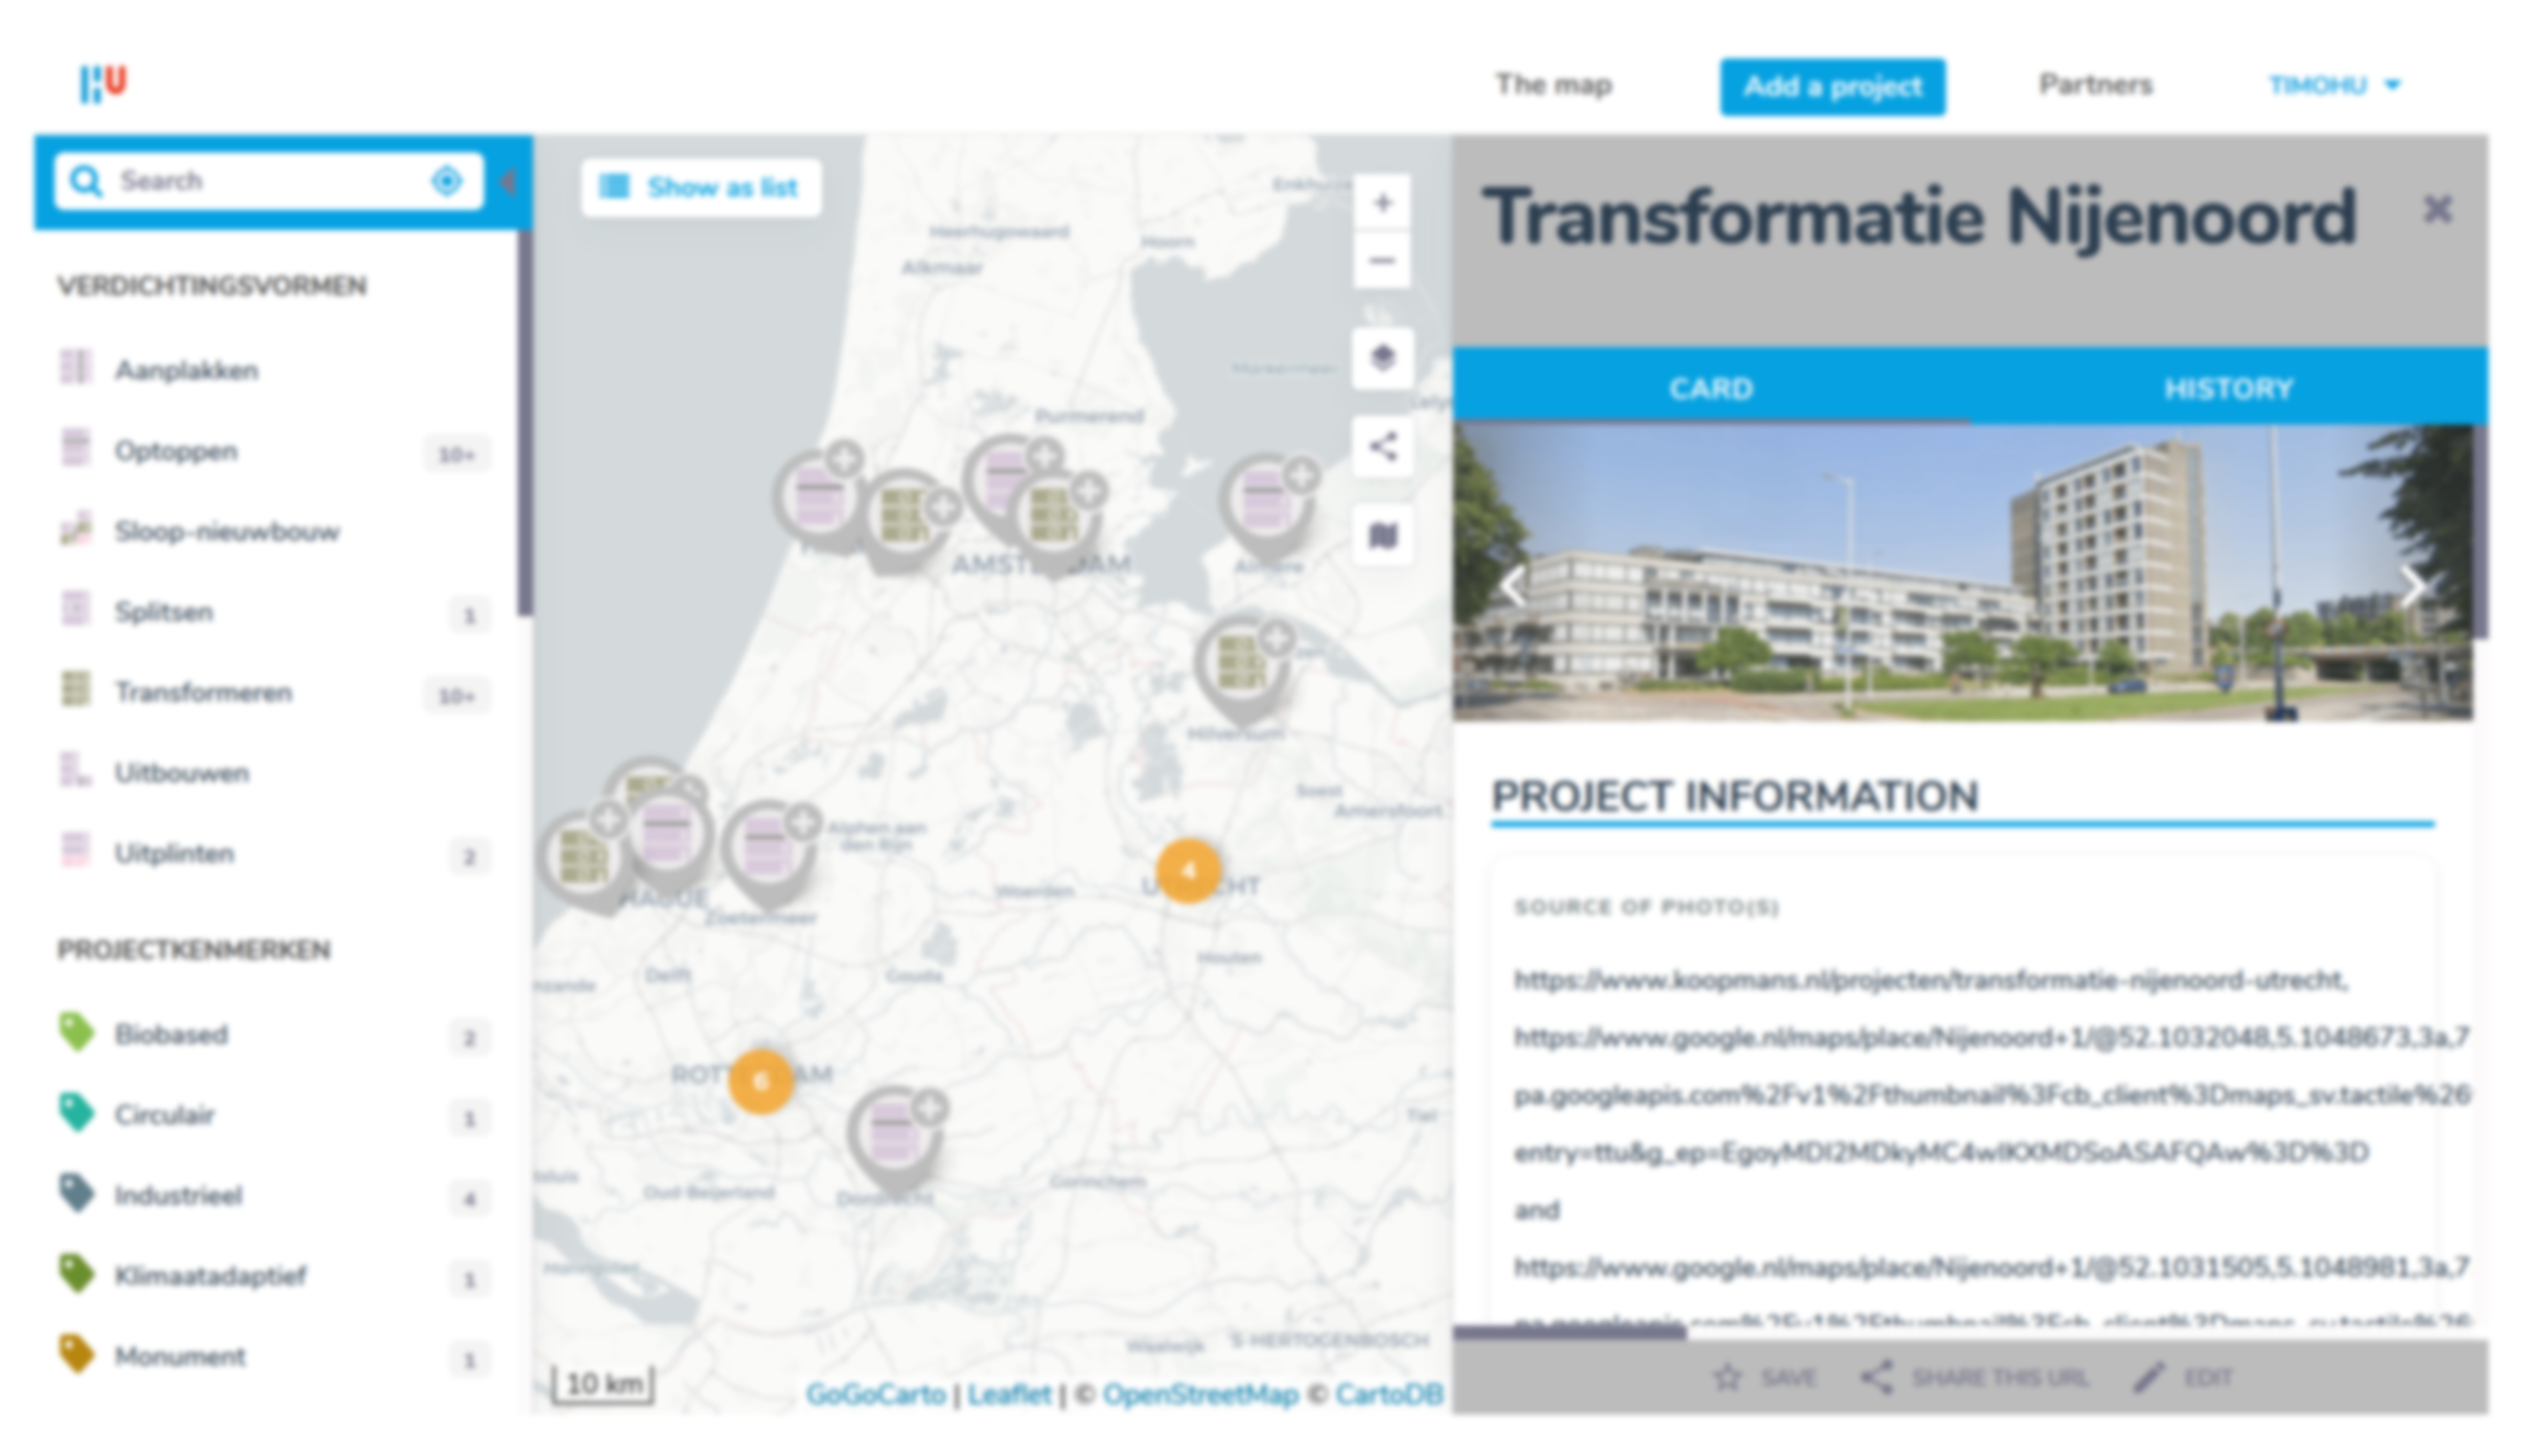
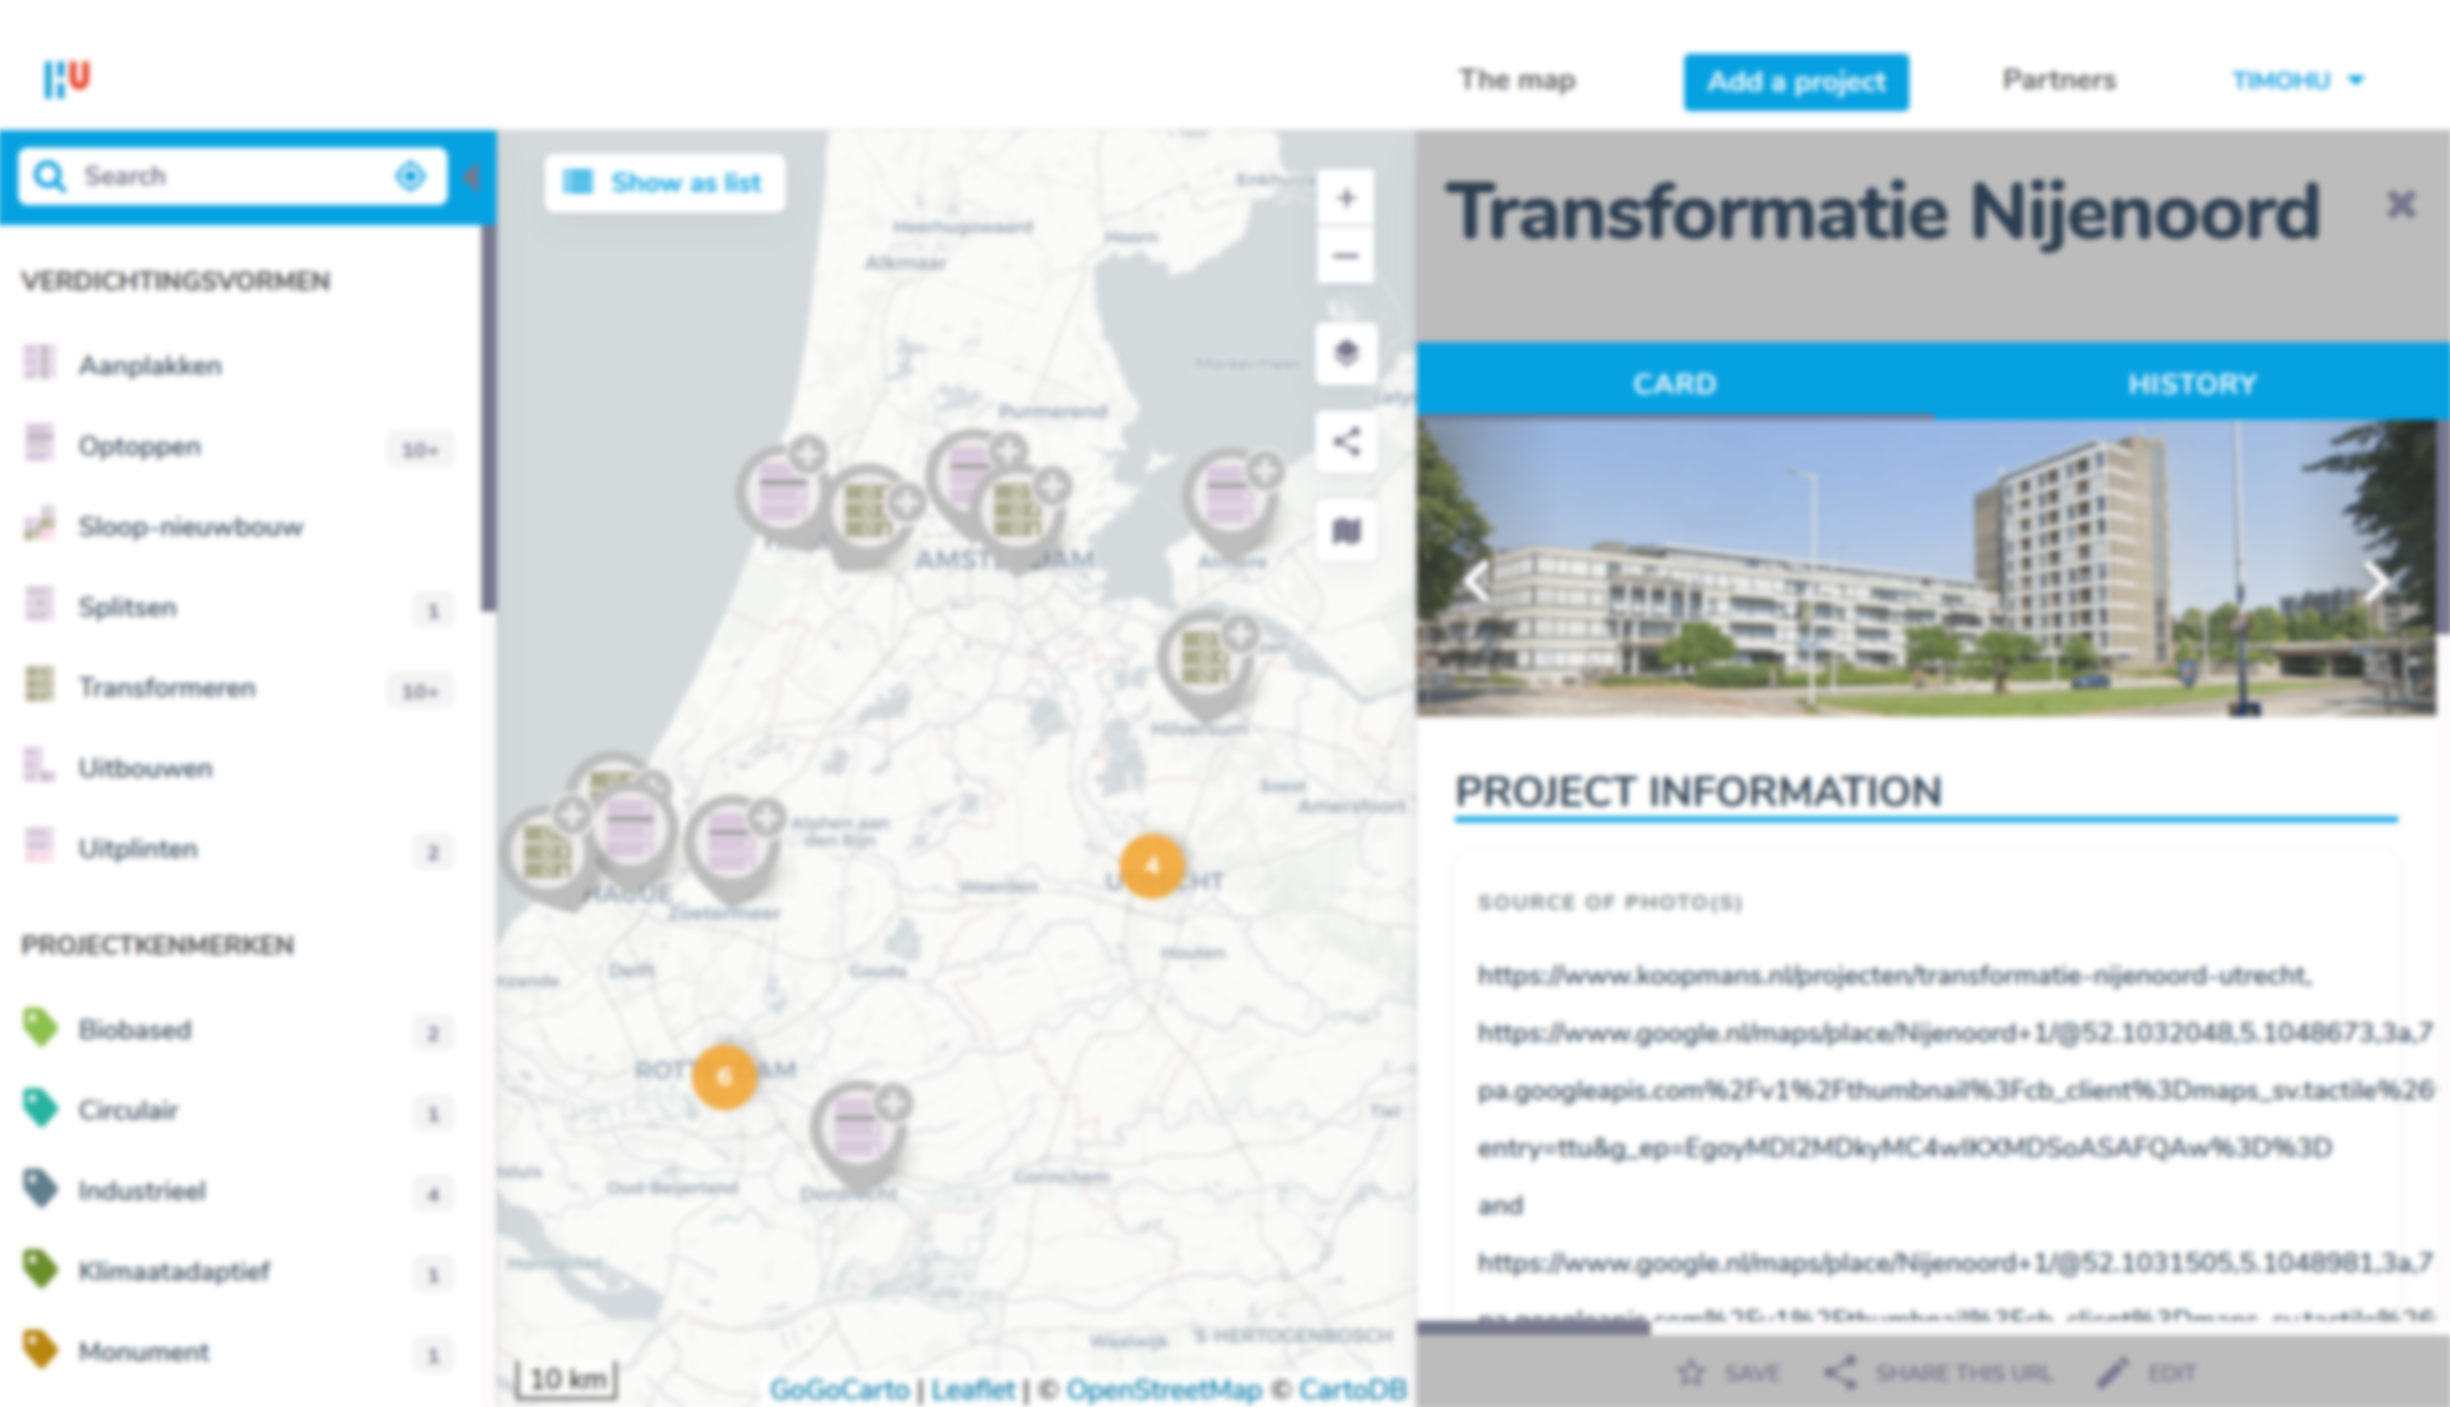
Add BBS project attribution
Add a credit on the homepage naming the Beter Benutten Scan partners and BZK subsidy, and update related image assets while removing an obsolete asset.

diff --git a/docs/index.html b/docs/index.html
@@ -187,6 +187,12 @@
         </a>
       </div>
     </section>
+
+    <div class="mt-4 pt-4 border-t border-rijks-rand">
+      <p class="text-sm text-slate-600 leading-relaxed">
+        De Beter Benutten Scan (BBS) is een ontwikkeling van Hogeschool Utrecht, in samenwerking met coöperatie Circol, PIM.info en TNO, mede mogelijk gemaakt door subsidie van het ministerie van BZK.
+      </p>
+    </div>
   </main>
 </body>
 </html>
